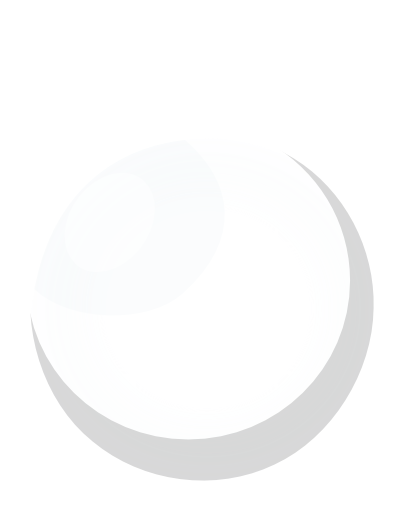
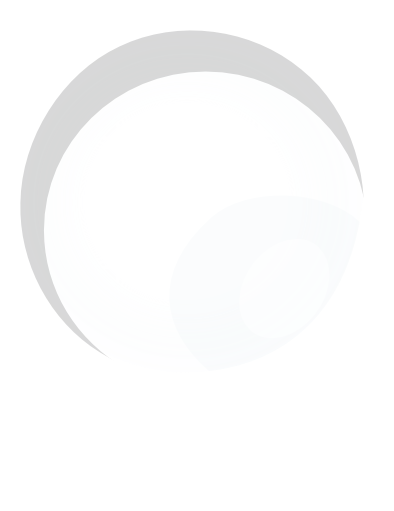
Updated HUD to be more thematic.

Changed region(s): [[0.0305, 0.0587, 0.9137, 0.6751], [0.0609, 0.3229, 0.9442, 0.9393]]

diff --git a/TypingGame/GameScreen.py b/TypingGame/GameScreen.py
@@ -19,6 +19,14 @@ def get_text(game):
     text = game.word_font.render(text_string, 1, game.text_color)
     return text, text_size[0]
 
+#def get_input_box(game):
+#    image_size = game.right_corner.get_size()
+#    left_border = 0 + image_size[0] * .79
+#    top_border = game.screenH - game.bottom_boxH - game.border_width / 2
+#    right_border = game.screenW - 316
+#    bottom_border = game.bottom_boxH
+#    return left_border, top_border, right_border, bottom_border
+
 
 #####################
 #   Word Handling   #
@@ -26,19 +34,22 @@ def get_text(game):
 def remove_words_from_screen(screen, game):
     if (game.player_input):
         player_input = game.player_input.split(' ')
-        for word in game.current_words:
+        for word in reversed(game.current_words):
             for player_word in player_input:
                 if (player_word == word.word):
-                    game.player_score += len(word.word)
+                    game.player_score += len(word.word) * game.score_bonus
                     game.characters_typed += len(word.word) + 1
-                    game.current_words.remove(word)
+                    try:
+                        game.current_words.remove(word)   # TODO fix (list.remove(x): x not in list) exception
+                    except:
+                        continue
                     game.add_word_bubble(word, screen)
                     game.button_hover_sound.play()
     return
 
 def check_word_count(game):
     if (len(game.current_words) < game.add_words_trigger):
-        words_to_add = game.add_words_trigger - len(game.current_words)
+        words_to_add = game.add_words_trigger - 1
         for i in range(words_to_add):
             game.current_words.append(random.choice(game.wordbank))
     return
@@ -193,20 +204,48 @@ def draw_words(screen, game):
         screen.blit(text, (word.x, word.y))
     return
 
-def draw_input_box(screen, game):
-    left_border = 0
-    top_border = game.screenH - game.bottom_boxH - game.border_width / 2
-    right_border = game.screenW - game.border_width / 2
-    bottom_border = game.bottom_boxH
-    box = (left_border, top_border, right_border, bottom_border)
-    pygame.draw.rect(screen, game.text_color, box, game.border_width)
+def draw_corner_bubble(screen, game, left_bubble=False):
+    image_size = game.right_corner.get_size()
+    y = game.screenH - image_size[1] * game.bubble_y_offset
+    if (left_bubble):
+        x = 0 - image_size[0] * game.left_corner_x_offset
+        screen.blit(game.left_corner, (x,y))
+    else:
+        x = game.screenW - image_size[0] * game.right_corner_x_offset
+        screen.blit(game.right_corner, (x,y))
+    return
+
+def draw_input_bubbles(screen, game):
+    image_size = game.right_corner.get_size()
+    x_start = 0 + image_size[0] * .75  #game.right_corner_x_offset
+    x_end = game.screenW - image_size[0] * .75 #game.right_corner_x_offset
+    y = game.screenH - game.bottom_boxH
+    pygame.draw.line(screen, game.text_color, (x_start,y), (x_end,y), game.border_width)
+    return
+
+def draw_hud(screen, game):
+    draw_corner_bubble(screen, game)
+    draw_corner_bubble(screen, game, True)
+    draw_input_bubbles(screen, game)
     return
 
 def draw_input_text(screen, game):
+    player_input = game.player_input_obj.get_surface()
     text = game.word_font.render(game.input_prompt, 1, game.text_color)
-    x = game.input_left_padding
+    input_text_size = game.font.getsize(game.player_input_obj.get_text())
+    text_size = game.font.getsize(game.input_prompt)
+    x = game.screenW / 2 - text_size[0] / 2 - input_text_size[0] / 2
     y = game.get_bottom_offset(game.player_score)
     screen.blit(text, (x, y))
+    return
+
+def draw_input(screen, game):
+    player_input = game.player_input_obj.get_surface()
+    #text_size = game.font.getsize(game.input_prompt)
+    input_text_size = game.font.getsize(game.player_input_obj.get_text())
+    x = game.screenW / 2 - input_text_size[0] / 2 #+ text_size[0] / 2
+    y = game.get_bottom_offset(input_text_size) + game.border_width
+    screen.blit(player_input, (x,y))
     return
 
 def draw_score_text(screen, game):
@@ -224,17 +263,9 @@ def draw_words_per_min(screen, game):
         gwpm = get_words_per_min(game)
         game.gross_words_per_min = gwpm
     text, text_width = get_text(game)
-    x = (game.screenW // 2) - (text_width / 2)
+    x = 0 + game.input_left_padding
     y = game.get_bottom_offset(game.player_score)
     screen.blit(text, (x,y))
-    return
-
-def draw_input(screen, game):
-    player_input = game.player_input_obj.get_surface()
-    text_size = game.font.getsize(game.input_prompt)
-    x = game.input_left_padding + text_size[0]
-    y = game.get_bottom_offset(game.input_prompt)
-    screen.blit(player_input, (x,y))
     return
 
 def draw_game_menu_buttons(screen, game, buttons):
@@ -249,10 +280,10 @@ def draw_game_screen(screen, game, buttons):
     game.draw_bg_image(screen)
     draw_words(screen, game)
     draw_game_menu_buttons(screen, game, buttons)
-    draw_input_box(screen, game)
-    draw_input_text(screen, game)
+    draw_hud(screen, game)
     draw_score_text(screen, game)
     draw_words_per_min(screen, game)
+    #draw_input_text(screen, game)
     draw_input(screen, game)
     game.draw_buttons(screen)
     pygame.display.update()

diff --git a/TypingGame/TypeMaster.py b/TypingGame/TypeMaster.py
@@ -24,7 +24,6 @@ class Game():
         self.screenH = 600
         self.title = "Type Master"
         self.top_padding = 100
-        self.game_menu_bottom_padding = 200
 
         # Fonts/Colors
         self.button_color = (44, 150, 199)
@@ -44,8 +43,9 @@ class Game():
         self.menu_buttonW = 100
 
         # Important Variables
+        self.score_bonus = 1
         self.up_or_down = -1 # -1 for words up 1 for words down
-        self.seconds_delay = 2
+        self.seconds_delay = 1
         self.max_word_speed = 1
         self.text_blink_delay = .5
         self.player_score = 0
@@ -62,6 +62,11 @@ class Game():
         self.current_words = [""]
         self.gross_words_per_min = 0
         self.wordbank = [""]
+
+        # HUD Variables
+        self.left_corner_x_offset = .15
+        self.right_corner_x_offset = .85
+        self.bubble_y_offset = .42
 
         # Frames
         self.bubble_frame_count = 0
@@ -121,6 +126,8 @@ class Game():
         self.pause_hovering = pygame.image.load("Media/pause_hovering.png")
         self.title_music = "Media/titleScreenMusic.mp3"
         self.title_text = pygame.image.load("Media/title_image.png")
+        self.right_corner = pygame.image.load("Media/bubbles/right_bubble.png")
+        self.left_corner = pygame.image.load("Media/bubbles/left_bubble.png")
 
         # Menu Parameters
         self.x_menu_col_1 = self.screenW / 4
@@ -131,8 +138,6 @@ class Game():
         self.y_menu_col_1 = self.screenH / 4
         self.y_menu_col_2 = self.screenH / 4 * 2
         self.y_menu_col_3 = self.screenH / 4 * 3
-        self.x_game_menu = self.screenW - self.buttonW
-        self.y_game_menu_base = self.screenH - self.border_width * 2 - self.bottom_boxH
 
 
     #####################

diff --git a/TypingGame/Buttons.py b/TypingGame/Buttons.py
@@ -79,11 +79,11 @@ class Button:
 
     def get_game_buttons(game):
         image_size = game.pause_image.get_size()
-        x = game.screenW - image_size[0] - game.border_width
-        y = game.y_game_menu_base - image_size[1]
+        x = game.screenW - image_size[0]
+        y = game.screenH * .3
         Button.add_button(x, y, "Pause", False, image_size, game)
         image_size = game.mute_image.get_size()
-        y = game.y_game_menu_base - image_size[1] * 2 - game.border_width * 5
+        y = game.screenH * .6
         Button.add_button(x, y, "Mute", False,  image_size, game)
         return Button.buttons
 
